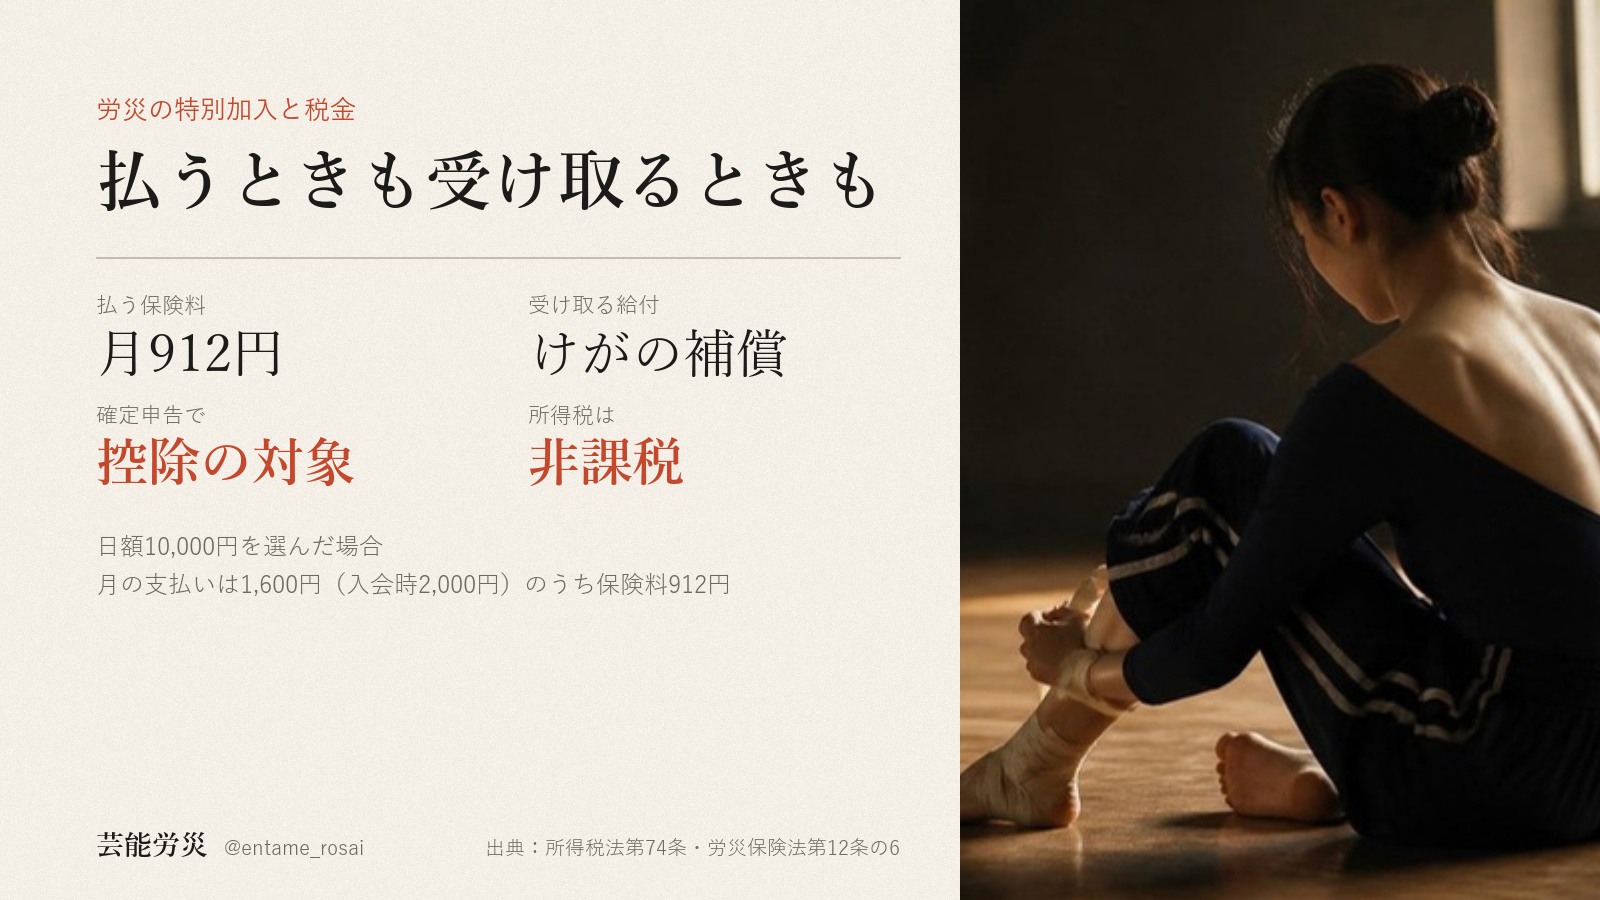
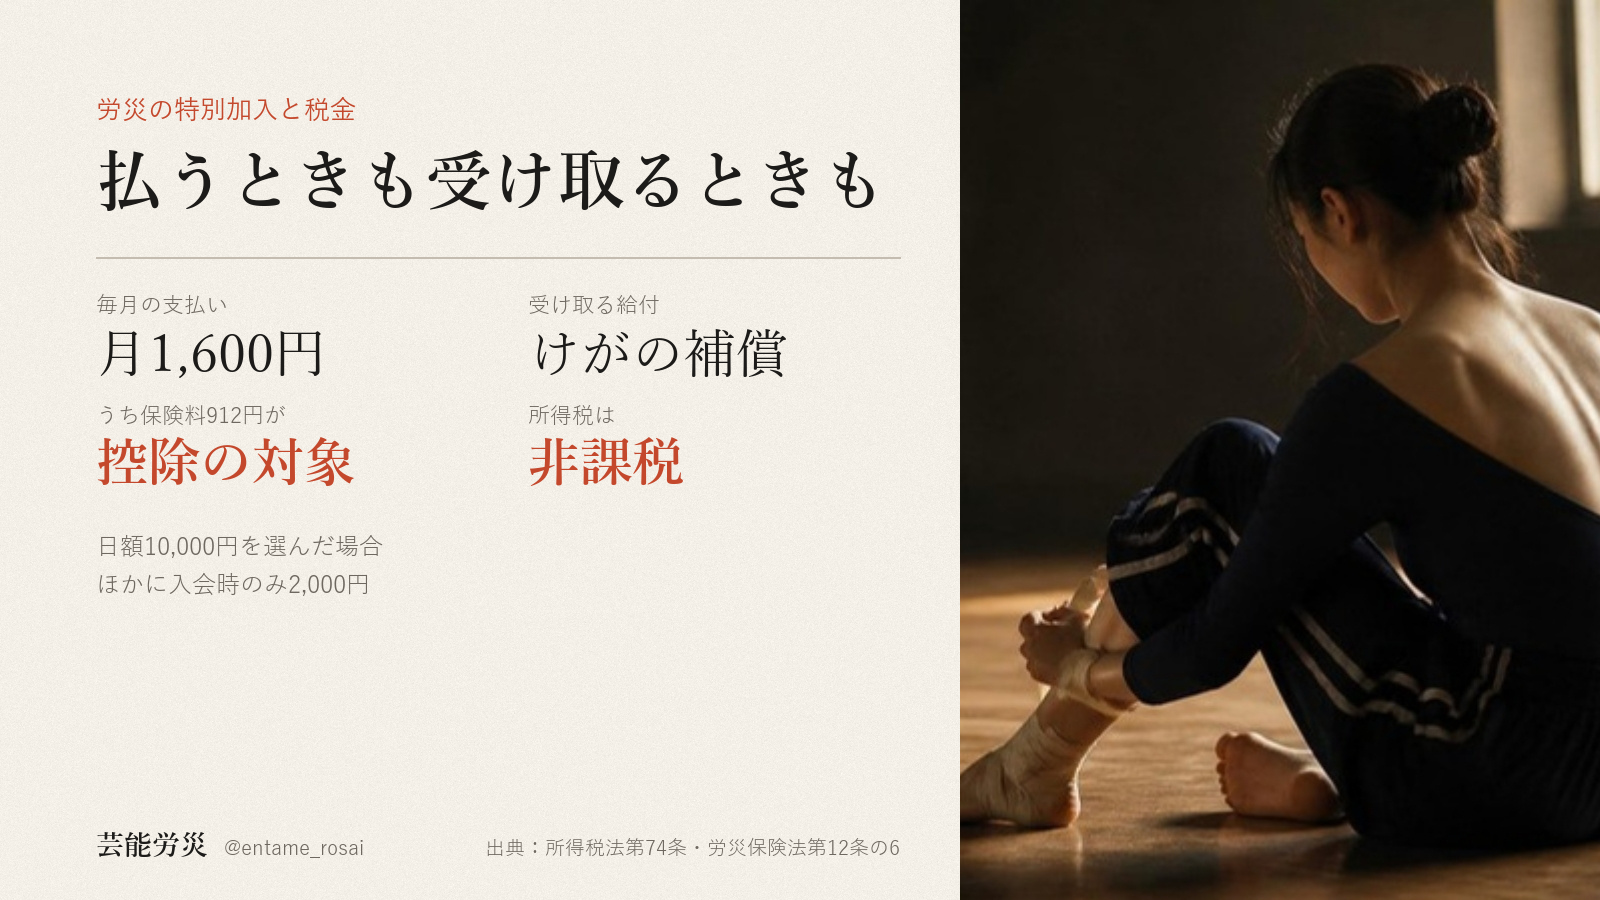
投稿デスク更新 2026-10-26

Changed region(s): [[0.0625, 0.3111, 0.2188, 0.4667], [0.0625, 0.6222, 0.3125, 0.6533], [0.375, 0.6222, 0.4375, 0.6533]]

diff --git a/index.html b/index.html
@@ -351,7 +351,7 @@ dialog img{width:100%;height:auto;border-radius:18px;display:block}
 <div class="toast" id="toast">コピーしました</div>
 <dialog id="zoom"><img alt=""></dialog>
 
-<script id="desk-data" type="application/json">{"account":"@entame_rosai","days":[{"date":"2026-10-26","label":"10月26日（月）　今日","items":[{"key":"x","date":"2026-10-17","label":"X（@entame_rosai）","account":"@entame_rosai","text":"労災の特別加入は、通勤中のけがも対象です。家と現場の間を、合理的な経路と方法で移動している間の事故が補償されます。寄り道で経路を外れると、その後の移動も原則対象外。日用品の買い物など必要最小限なら、経路に戻った後は対象です。（厚生労働省 特別加入制度のしおり）","chars":130,"lines":1,"hashtags":0,"limit":140,"status":"（台帳に記載なし）","url":"","images":[{"name":"x_image.png","path":"assets/2026-10-17/x_image/x_image.png"}],"alt":"右側は、ステッカーだらけの狭い楽屋廊下を、ギターケースを提げて歩いていく人を後ろから写した写真。顔は写っていない。左側は生成りの紙の地に明朝体で「家と現場の行き帰りも対象になる」。続けて「合理的な経路と方法での移動なら補償される」。注記に、寄り道で経路を外れるとその後の移動も原則対象外、日用品の買い物など最小限なら経路に戻った後は対象。出典は厚生労働省 特別加入制度のしおり。","check":{"errors":[],"warns":[]},"made":"2026-10-17","slot":"2026-10-26"}]},{"date":"2026-10-27","label":"10月27日（火）　投稿予定","items":[{"key":"x","date":"2026-10-20","label":"X（@entame_rosai）","account":"@entame_rosai","text":"労災の特別加入は、何月から何か月間入るかを申込のときに選べます。給付基礎日額10,000円を選んだ場合、月1,600円（保険料912円、組合費500円、手数料188円）。初月だけ入会事務手数料2,000円が加わり、5か月なら総額10,000円です。（当団体の申込フォームの試算）","chars":139,"lines":1,"hashtags":0,"limit":140,"status":"（台帳に記載なし）","url":"","images":[{"name":"x_image.png","path":"assets/2026-10-20/x_image/x_image.png"}],"alt":"劇場の袖にある舞台監督の机。青いデスクライトの下にヘッドセットと進行表、腕時計があり、奥の舞台では俳優が演技している。画像の文字：加入する期間　何か月入るかを自分で選べる　加入する期間／支払総額　1か月 3,600円　3か月 6,800円　5か月 10,000円　給付基礎日額10,000円の場合 月1,600円　初月のみ入会事務手数料2,000円を含む　出典：当団体の申込フォームの試算　芸能労災 @entame_rosai","check":{"errors":[],"warns":[]},"made":"2026-10-20","slot":"2026-10-27"}]},{"date":"2026-10-28","label":"10月28日（水）　投稿予定","items":[{"key":"x","date":"2026-10-21","label":"X（@entame_rosai）","account":"@entame_rosai","text":"労災の特別加入は、芸能なら保険料率が一律0.3%。俳優もダンサーもスタントも同じで、審査も割増もありません。日額10,000円を選んだ場合、月1,600円（保険料912円、組合費500円、手数料188円）、初月に入会事務手数料2,000円。（徴収法施行規則・当団体申込フォーム）","chars":139,"lines":1,"hashtags":0,"limit":140,"status":"（台帳に記載なし）","url":"","images":[{"name":"x_image.png","path":"assets/2026-10-21/x_image/x_image.png"}],"alt":"右半分は、青空の下で屋外ステージのトラスに吊られた照明機材を見上げた写真。左半分は生成り色の紙の上に文字。「芸能の特別加入の保険料率」「0.3%」「俳優もダンサーもスタントも 同じ率で 審査も割増もない」「給付基礎日額10,000円の場合 月1,600円」「初月のみ入会事務手数料2,000円」「芸能労災 @entame_rosai」「出典：徴収法施行規則／当団体申込フォーム」","check":{"errors":[],"warns":["競合の調査由来かもしれない数字/語: 0.3%　… 労災の特別加入は、芸能なら保険料率が一律0.3%。俳優もダンサーもスタントも同じで、審査も割増もありませ…"]},"made":"2026-10-21","slot":"2026-10-28"}]},{"date":"2026-10-29","label":"10月29日（木）　投稿予定","items":[{"key":"x","date":"2026-10-22","label":"X（@entame_rosai）","account":"@entame_rosai","text":"給付基礎日額は3,500円から25,000円の16段階から、自分で選べます。けがで働けない日の給付は選んだ日額の80%（休業4日目から）。日額10,000円なら1日8,000円で、費用は月1,600円＋初月に入会事務手数料2,000円。（厚労省・当団体申込フォーム）","chars":133,"lines":1,"hashtags":0,"limit":140,"status":"（台帳に記載なし）","url":"","images":[{"name":"x_image.png","path":"assets/2026-10-22/x_image/x_image.png"}],"alt":"右半分は、暗い舞台に紫色のスポットライトが3つ斜めに差し込み、床に光の輪が落ちている写真。左半分は生成り色の紙の上に文字。「給付基礎日額」「日額は 自分で選べる」「選べる幅 16段階」「いちばん低い日額 3,500円」「いちばん高い日額 25,000円」「働けない日の給付 日額の80%」「日額10,000円なら1日8,000円（休業4日目から）」「費用は月1,600円 初月のみ入会事務手数料2,000円」「芸能労災 @entame_rosai」「出典：厚労省／当団体申込フォーム」","check":{"errors":[],"warns":[]},"made":"2026-10-22","slot":"2026-10-29"}]},{"date":"2026-10-30","label":"10月30日（金）　投稿予定","items":[{"key":"x","date":"2026-10-23","label":"X（@entame_rosai）","account":"@entame_rosai","text":"労災保険には、介護の給付もあります。障がいや傷病の年金が1級、または2級の一部で、いま介護を受けている人に支給されます。家族が介護している場合も対象です。入院中や、特別養護老人ホームなどに入所中は対象外です。特別加入した表現者も受けられます。（労災保険法 第19条の2）","chars":135,"lines":1,"hashtags":0,"limit":140,"status":"（台帳に記載なし）","url":"","images":[{"name":"x_image.png","path":"assets/2026-10-23/x_image/x_image.png"}],"alt":"右半分はライブハウスの客席後方で、音響担当の人が両手でミキサー卓のつまみを操作している写真。奥のステージではギターを持った演者がスポットライトを浴び、観客が立って見ている。左半分は紙の地に文字。「労災保険の給付」「介護の給付もあります」「障がいや傷病の年金が1級または2級の一部で、いま介護を受けている人に支給されます」「家族が介護している場合も対象」「入院中や特別養護老人ホームなどに入所中は対象外」「芸能労災 @entame_rosai」「出典：労災保険法 第19条の2」","check":{"errors":[],"warns":[]},"made":"2026-10-23","slot":"2026-10-30"}]},{"date":"2026-10-31","label":"10月31日（土）　投稿予定","items":[{"key":"x","date":"2026-10-25","label":"X（@entame_rosai）","account":"@entame_rosai","text":"労災の特別加入には、けがが治ったあとも障がいが残ったときの給付があります。等級は1級から14級で、1〜7級は年金、8〜14級は一時金です。給付基礎日額10,000円を選んだ場合、1級は年313万円、7級は年131万円、14級は一時金56万円です。（労災保険法 別表第1・第2）","chars":138,"lines":1,"hashtags":0,"limit":140,"status":"（台帳に記載なし）","url":"","images":[{"name":"x_image.png","path":"assets/2026-10-25/x_image/x_image.png"}],"alt":"夕方の光が差し込む、鏡とバーのあるダンススタジオの写真。左側に表。労災保険の給付。障がいが残ったとき。等級、日額10,000円の場合。1級（年金）年313万円。7級（年金）年131万円。14級（一時金）56万円。1級から7級は年金、8級から14級は一時金。金額は選んだ給付基礎日額で決まります。芸能労災 @entame_rosai。出典：労災保険法 別表第1・第2","check":{"errors":[],"warns":[]},"made":"2026-10-25","slot":"2026-10-31"}]},{"date":"2026-11-01","label":"11月1日（日）　投稿予定","items":[{"key":"x","date":"2026-10-26","label":"X（@entame_rosai）","account":"@entame_rosai","text":"労災の特別加入の保険料は、確定申告で社会保険料控除の対象です。日額10,000円を選んだ場合、月の支払い1,600円（入会時2,000円）のうち保険料912円の部分です。けがで受け取る給付は非課税です。（所得税法第74条・労災保険法第12条の6）","chars":123,"lines":1,"hashtags":0,"limit":140,"status":"（台帳に記載なし）","url":"","images":[{"name":"x_image.png","path":"assets/2026-10-26/x_image/x_image.png"}],"alt":"右側は、薄暗い稽古場の床に座り、足首にテーピングを巻いているダンサーの写真。左側の紙面に文字。「労災の特別加入と税金」「払うときも受け取るときも」。左の列「払う保険料　月912円　確定申告で　控除の対象」。右の列「受け取る給付　けがの補償　所得税は　非課税」。注記「日額10,000円を選んだ場合　月の支払いは1,600円（入会時2,000円）のうち保険料912円」。出典「所得税法第74条・労災保険法第12条の6」。芸能労災 @entame_rosai","check":{"errors":[],"warns":[]},"made":"2026-10-26","slot":"2026-11-01"}]}],"todo":[{"due":"今日","who":"作業者","title":"X（@entame_rosai）の今日の投稿","detail":"画像1枚を添付 → 代替テキストを入れる → 本文を貼る、の順。代替テキストは直近の投稿で入っていません。X は投稿後に足せません。","cid":"c-2026-10-17-x"},{"due":"未公開のまま","who":"矢部さん","title":"note の記事を公開（09/18作成）","detail":"このデスクには載っていません（note は矢部さんの手元の下書き）。公開するときは見出し画像を必ず設定。","cid":""},{"due":"未公開のまま","who":"矢部さん","title":"note の記事を公開（10/09作成）","detail":"このデスクには載っていません（note は矢部さんの手元の下書き）。公開するときは見出し画像を必ず設定。","cid":""},{"due":"投稿のたび","who":"作業者","title":"投稿URLと名前を、そのカードの欄に保存","detail":"記録が集まらないと、何が出たかを後から確かめられません。","cid":""}],"builtAt":"2026-10-26 08:34","today":"2026-10-26","followers":{"date":"10-13","x":5,"ig":21,"note":0},"hero":"assets/hero.jpg","endpoint":"https://script.google.com/macros/s/AKfycbxhxM75PszpPOX_HDJ4yuBmQSqu1b7CXq2sbCxlqTZ_TyF8hROH2MyKnYNU11avb8UQCA/exec"}</script>
+<script id="desk-data" type="application/json">{"account":"@entame_rosai","days":[{"date":"2026-10-26","label":"10月26日（月）　今日","items":[{"key":"x","date":"2026-10-17","label":"X（@entame_rosai）","account":"@entame_rosai","text":"労災の特別加入は、通勤中のけがも対象です。家と現場の間を、合理的な経路と方法で移動している間の事故が補償されます。寄り道で経路を外れると、その後の移動も原則対象外。日用品の買い物など必要最小限なら、経路に戻った後は対象です。（厚生労働省 特別加入制度のしおり）","chars":130,"lines":1,"hashtags":0,"limit":140,"status":"（台帳に記載なし）","url":"","images":[{"name":"x_image.png","path":"assets/2026-10-17/x_image/x_image.png"}],"alt":"右側は、ステッカーだらけの狭い楽屋廊下を、ギターケースを提げて歩いていく人を後ろから写した写真。顔は写っていない。左側は生成りの紙の地に明朝体で「家と現場の行き帰りも対象になる」。続けて「合理的な経路と方法での移動なら補償される」。注記に、寄り道で経路を外れるとその後の移動も原則対象外、日用品の買い物など最小限なら経路に戻った後は対象。出典は厚生労働省 特別加入制度のしおり。","check":{"errors":[],"warns":[]},"made":"2026-10-17","slot":"2026-10-26"}]},{"date":"2026-10-27","label":"10月27日（火）　投稿予定","items":[{"key":"x","date":"2026-10-20","label":"X（@entame_rosai）","account":"@entame_rosai","text":"労災の特別加入は、何月から何か月間入るかを申込のときに選べます。給付基礎日額10,000円を選んだ場合、月1,600円（保険料912円、組合費500円、手数料188円）。初月だけ入会事務手数料2,000円が加わり、5か月なら総額10,000円です。（当団体の申込フォームの試算）","chars":139,"lines":1,"hashtags":0,"limit":140,"status":"（台帳に記載なし）","url":"","images":[{"name":"x_image.png","path":"assets/2026-10-20/x_image/x_image.png"}],"alt":"劇場の袖にある舞台監督の机。青いデスクライトの下にヘッドセットと進行表、腕時計があり、奥の舞台では俳優が演技している。画像の文字：加入する期間　何か月入るかを自分で選べる　加入する期間／支払総額　1か月 3,600円　3か月 6,800円　5か月 10,000円　給付基礎日額10,000円の場合 月1,600円　初月のみ入会事務手数料2,000円を含む　出典：当団体の申込フォームの試算　芸能労災 @entame_rosai","check":{"errors":[],"warns":[]},"made":"2026-10-20","slot":"2026-10-27"}]},{"date":"2026-10-28","label":"10月28日（水）　投稿予定","items":[{"key":"x","date":"2026-10-21","label":"X（@entame_rosai）","account":"@entame_rosai","text":"労災の特別加入は、芸能なら保険料率が一律0.3%。俳優もダンサーもスタントも同じで、審査も割増もありません。日額10,000円を選んだ場合、月1,600円（保険料912円、組合費500円、手数料188円）、初月に入会事務手数料2,000円。（徴収法施行規則・当団体申込フォーム）","chars":139,"lines":1,"hashtags":0,"limit":140,"status":"（台帳に記載なし）","url":"","images":[{"name":"x_image.png","path":"assets/2026-10-21/x_image/x_image.png"}],"alt":"右半分は、青空の下で屋外ステージのトラスに吊られた照明機材を見上げた写真。左半分は生成り色の紙の上に文字。「芸能の特別加入の保険料率」「0.3%」「俳優もダンサーもスタントも 同じ率で 審査も割増もない」「給付基礎日額10,000円の場合 月1,600円」「初月のみ入会事務手数料2,000円」「芸能労災 @entame_rosai」「出典：徴収法施行規則／当団体申込フォーム」","check":{"errors":[],"warns":["競合の調査由来かもしれない数字/語: 0.3%　… 労災の特別加入は、芸能なら保険料率が一律0.3%。俳優もダンサーもスタントも同じで、審査も割増もありませ…"]},"made":"2026-10-21","slot":"2026-10-28"}]},{"date":"2026-10-29","label":"10月29日（木）　投稿予定","items":[{"key":"x","date":"2026-10-22","label":"X（@entame_rosai）","account":"@entame_rosai","text":"給付基礎日額は3,500円から25,000円の16段階から、自分で選べます。けがで働けない日の給付は選んだ日額の80%（休業4日目から）。日額10,000円なら1日8,000円で、費用は月1,600円＋初月に入会事務手数料2,000円。（厚労省・当団体申込フォーム）","chars":133,"lines":1,"hashtags":0,"limit":140,"status":"（台帳に記載なし）","url":"","images":[{"name":"x_image.png","path":"assets/2026-10-22/x_image/x_image.png"}],"alt":"右半分は、暗い舞台に紫色のスポットライトが3つ斜めに差し込み、床に光の輪が落ちている写真。左半分は生成り色の紙の上に文字。「給付基礎日額」「日額は 自分で選べる」「選べる幅 16段階」「いちばん低い日額 3,500円」「いちばん高い日額 25,000円」「働けない日の給付 日額の80%」「日額10,000円なら1日8,000円（休業4日目から）」「費用は月1,600円 初月のみ入会事務手数料2,000円」「芸能労災 @entame_rosai」「出典：厚労省／当団体申込フォーム」","check":{"errors":[],"warns":[]},"made":"2026-10-22","slot":"2026-10-29"}]},{"date":"2026-10-30","label":"10月30日（金）　投稿予定","items":[{"key":"x","date":"2026-10-23","label":"X（@entame_rosai）","account":"@entame_rosai","text":"労災保険には、介護の給付もあります。障がいや傷病の年金が1級、または2級の一部で、いま介護を受けている人に支給されます。家族が介護している場合も対象です。入院中や、特別養護老人ホームなどに入所中は対象外です。特別加入した表現者も受けられます。（労災保険法 第19条の2）","chars":135,"lines":1,"hashtags":0,"limit":140,"status":"（台帳に記載なし）","url":"","images":[{"name":"x_image.png","path":"assets/2026-10-23/x_image/x_image.png"}],"alt":"右半分はライブハウスの客席後方で、音響担当の人が両手でミキサー卓のつまみを操作している写真。奥のステージではギターを持った演者がスポットライトを浴び、観客が立って見ている。左半分は紙の地に文字。「労災保険の給付」「介護の給付もあります」「障がいや傷病の年金が1級または2級の一部で、いま介護を受けている人に支給されます」「家族が介護している場合も対象」「入院中や特別養護老人ホームなどに入所中は対象外」「芸能労災 @entame_rosai」「出典：労災保険法 第19条の2」","check":{"errors":[],"warns":[]},"made":"2026-10-23","slot":"2026-10-30"}]},{"date":"2026-10-31","label":"10月31日（土）　投稿予定","items":[{"key":"x","date":"2026-10-25","label":"X（@entame_rosai）","account":"@entame_rosai","text":"労災の特別加入には、けがが治ったあとも障がいが残ったときの給付があります。等級は1級から14級で、1〜7級は年金、8〜14級は一時金です。給付基礎日額10,000円を選んだ場合、1級は年313万円、7級は年131万円、14級は一時金56万円です。（労災保険法 別表第1・第2）","chars":138,"lines":1,"hashtags":0,"limit":140,"status":"（台帳に記載なし）","url":"","images":[{"name":"x_image.png","path":"assets/2026-10-25/x_image/x_image.png"}],"alt":"夕方の光が差し込む、鏡とバーのあるダンススタジオの写真。左側に表。労災保険の給付。障がいが残ったとき。等級、日額10,000円の場合。1級（年金）年313万円。7級（年金）年131万円。14級（一時金）56万円。1級から7級は年金、8級から14級は一時金。金額は選んだ給付基礎日額で決まります。芸能労災 @entame_rosai。出典：労災保険法 別表第1・第2","check":{"errors":[],"warns":[]},"made":"2026-10-25","slot":"2026-10-31"}]},{"date":"2026-11-01","label":"11月1日（日）　投稿予定","items":[{"key":"x","date":"2026-10-26","label":"X（@entame_rosai）","account":"@entame_rosai","text":"労災の特別加入の保険料は、確定申告で社会保険料控除の対象です。日額10,000円を選んだ場合、月の支払い1,600円のうち保険料912円の部分です（ほかに入会時のみ2,000円）。けがで受け取る給付は非課税です。（所得税法第74条・労災保険法第12条の6）","chars":128,"lines":1,"hashtags":0,"limit":140,"status":"（台帳に記載なし）","url":"","images":[{"name":"x_image.png","path":"assets/2026-10-26/x_image/x_image.png"}],"alt":"右側は、薄暗い稽古場の床に座り、足首にテーピングを巻いているダンサーの後ろ姿の写真。左側の紙面に文字。「労災の特別加入と税金」「払うときも受け取るときも」。左の列「毎月の支払い　月1,600円　うち保険料912円が　控除の対象」。右の列「受け取る給付　けがの補償　所得税は　非課税」。注記「日額10,000円を選んだ場合　ほかに入会時のみ2,000円」。出典「所得税法第74条・労災保険法第12条の6」。芸能労災 @entame_rosai","check":{"errors":[],"warns":[]},"made":"2026-10-26","slot":"2026-11-01"}]}],"todo":[{"due":"今日","who":"作業者","title":"X（@entame_rosai）の今日の投稿","detail":"画像1枚を添付 → 代替テキストを入れる → 本文を貼る、の順。代替テキストは直近の投稿で入っていません。X は投稿後に足せません。","cid":"c-2026-10-17-x"},{"due":"未公開のまま","who":"矢部さん","title":"note の記事を公開（09/18作成）","detail":"このデスクには載っていません（note は矢部さんの手元の下書き）。公開するときは見出し画像を必ず設定。","cid":""},{"due":"未公開のまま","who":"矢部さん","title":"note の記事を公開（10/09作成）","detail":"このデスクには載っていません（note は矢部さんの手元の下書き）。公開するときは見出し画像を必ず設定。","cid":""},{"due":"投稿のたび","who":"作業者","title":"投稿URLと名前を、そのカードの欄に保存","detail":"記録が集まらないと、何が出たかを後から確かめられません。","cid":""}],"builtAt":"2026-10-26 08:36","today":"2026-10-26","followers":{"date":"10-13","x":5,"ig":21,"note":0},"hero":"assets/hero.jpg","endpoint":"https://script.google.com/macros/s/AKfycbxhxM75PszpPOX_HDJ4yuBmQSqu1b7CXq2sbCxlqTZ_TyF8hROH2MyKnYNU11avb8UQCA/exec"}</script>
 <script>
 (function(){
   var DATA = JSON.parse(document.getElementById('desk-data').textContent);
